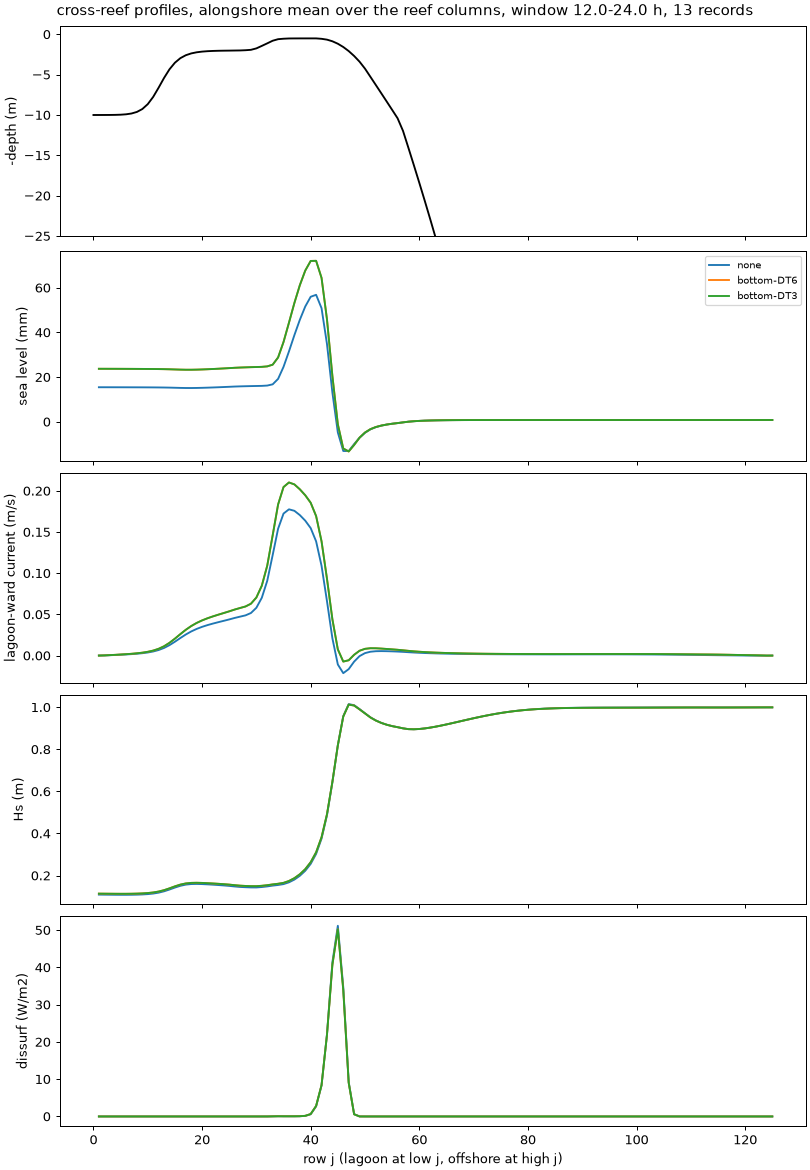
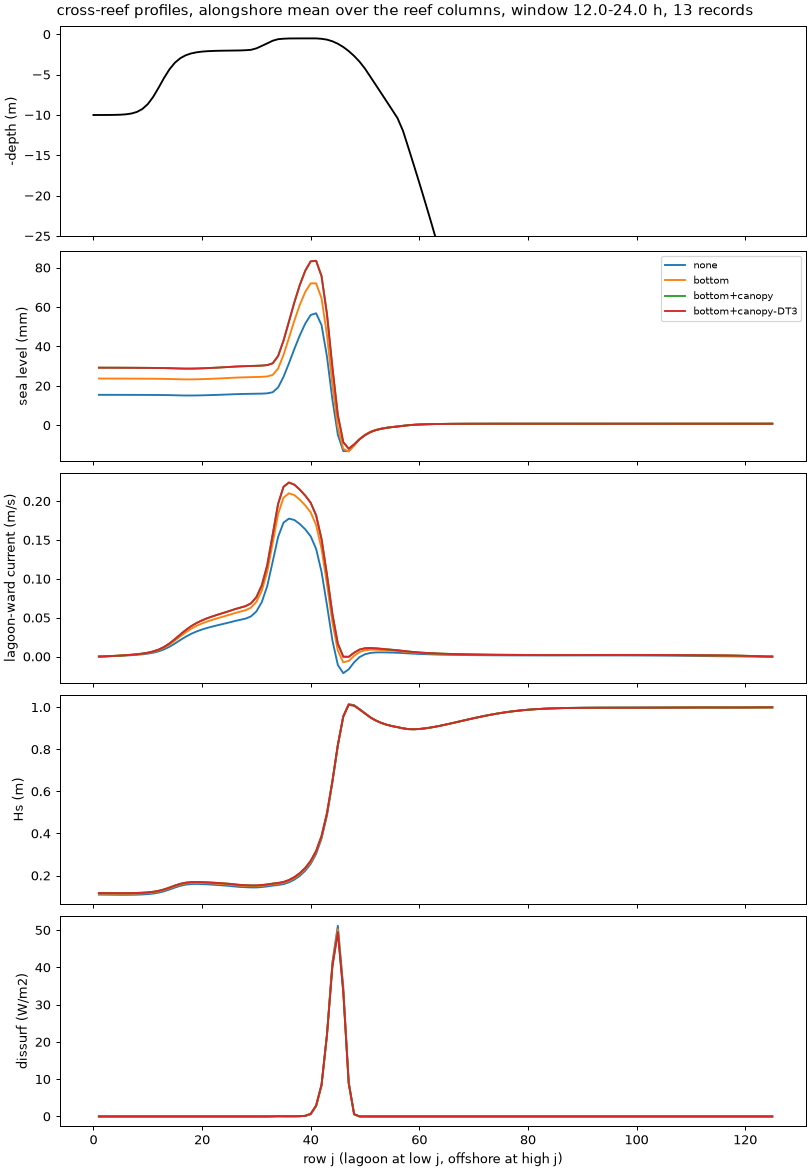
Wave streaming: bottom + canopy roughly doubles the lagoon set-up (+95 %), crest transport +32 %; stable at DT 6 s

diff --git a/results/README.md b/results/README.md
@@ -7,7 +7,7 @@ linked in each section, where the full tables, figures and run details are.
 Percentages are differences between 24 h runs, over hours 12-24 (the second
 tidal cycle), unless stated.
 
-**Last updated:** 2026-11-03 22:10 UTC.
+**Last updated:** 2026-11-03 22:40 UTC.
 
 Entries: [results p0-p2](../notebook/2026-11-02_options-campaign-results-p0-p2.md),
 [triads-on](../notebook/2026-11-02_options-triads-on.md),
@@ -52,7 +52,7 @@ Entries: [results p0-p2](../notebook/2026-11-02_options-campaign-results-p0-p2.m
 | Question | Answer | Size of the effect | Entry |
 |---|---|---|---|
 | Turbulence closure on the heated reef (k-epsilon KC / Canuto-A, gen, k-omega) | **k-epsilon is fine**: Canuto-A within 1-3 %; gen within 5 % (crest shear 10 %); k-omega odd in the lagoon (AKt at the background, weaker mean stratification), needs a look; `VEG_TURB` itself 2-8 % | 5-10 % | closure entry; keep k-epsilon proposed |
-| Wave streaming: the wave momentum lost to bottom friction (`BOTTOM_STREAMING`) | **first-order**: set-up +57 %, crest transport +22 %, pass +19 %, jets +13-22 %; stable at DT 6 s (= DT 3 s); the canopy part (`VEG_STREAMING`) pending | without it a third of the reef's wave forcing is missing | wave-streaming entry; the author's decision open |
+| Wave streaming: the wave momentum lost to bottom friction (`BOTTOM_STREAMING`) | **first-order**: bottom alone set-up +57 %, crest transport +22 %; **bottom + canopy (`VEG_STREAMING`) set-up +95 %, crest +32 %, pass +29 %, jets +27-35 %**; stable at DT 6 s (= DT 3 s), no cost | without them 60 % of the dissipated wave momentum pushes no water | wave-streaming entry; the author's decision open |
 | Triads (`TRIAD`) | first-order; must be on, with the SWAN fix | without them: set-up -82 % (dense canopy), -61 % (density-1 canopy), -32 % (bare) | triads-on, density-1 |
 | Wave breaking formulation, with triads | CON 0.73 and CON 0.80 agree within 1 % on the realistic canopy; `BKD` gives 7-11 % more set-up, crest transport and crest jet; `TG` (Thornton-Guza) leaves the flow within 3 % but changes the fore-reef shear, crest Hs and flushing | density-1 canopy: BKD set-up +8 %, crest jet +11 %; TG forereef shear +62 %, Hs crest -18 %, flushing +33 % (dense canopy: similar spread) | density-1, triads-on |
 | ... without triads (for the record) | the spread looked huge | set-up -24 % to +108 %: an artefact of the missing triads | results p0-p2 |
@@ -154,8 +154,8 @@ cheaper** (65-75 instead of 81-84 s of wall time per simulated hour).
   `ZOS_HSIG_ALPHA`, ...) and lagoon residence time with ROMSPath.
 - `VEG_TURB` is written for k-epsilon only: the closure test favours keeping
   k-epsilon, so no patch is needed (to revisit only if gen or k-omega is chosen).
-- Wave streaming: bottom streaming is first-order (set-up +57 %); adopting it is the
-  author's decision; canopy streaming being rerun after a restart-file fix.
+- Wave streaming: first-order (bottom + canopy: set-up +95 %, crest transport +32 %);
+  adopting it is the author's decision.
 - `TKE_WAVEDISS`, the roller and the breaking
   formulations on the stratified and heated cases with triads on; (`SPLINES_VDIFF`: inert with MPDATA.)
 - `UV_BANIHASHEMI` instead of `UV_KIRBY`: no difference on A15 (within 0.5 %); to

diff --git a/notebook/2026-11-03_wave-streaming.md b/notebook/2026-11-03_wave-streaming.md
@@ -1,7 +1,7 @@
 # Wave streaming: the wave momentum lost to bottom friction and the canopy
 
 - **Date:** 2026-11-03
-- **Status:** bottom streaming done (first-order: set-up +57 %); bottom + canopy streaming being rerun after a fix
+- **Status:** done: bottom streaming set-up +57 %, bottom + canopy +95 %; adopting them is the author's decision
 - **Builds:** coawst-cloud `ae2da7f` (`roms-veg-streaming-fixes`), `+BOTTOM_STREAMING`
   (and `+VEG_STREAMING`); `Reef_Ideal_A15_veg`, breaking-zone grid, roller, density-1
   canopy, 10 levels, `GLS_Kmin` 7.6e-6, `BREAKING CON 1.0 0.73` (as the baseline member
@@ -71,6 +71,30 @@ itself was right.
   case of the coawst-cloud fix blew up; cost +1.5 %.
 - The waves themselves change little (Hs +3.7 % from the deeper water over the crest).
 
+## Results: bottom and canopy streaming
+
+Same runs plus `VEG_STREAMING` (coawst-cloud `4abff12`, after the restart-file fix):
+
+| Metric | none | bottom | bottom + canopy, DT 6 s | bottom + canopy, DT 3 s |
+|---|---|---|---|---|
+| set-up | 14.18 mm | +57 % | **+95 %** | +95 % |
+| set-up range | 13.48 mm | +32 % | +56 % | +56 % |
+| crest transport | 521 m³/s | +22 % | **+32 %** | +33 % |
+| pass transport | 618 m³/s | +19 % | +29 % | +29 % |
+| crest jet p99 / max | 0.195 / 0.264 m/s | +17 / +13 % | +27 / +21 % | +27 / +21 % |
+| pass jet p99 / max | 0.337 / 0.404 m/s | +22 / +21 % | +35 / +33 % | +35 / +33 % |
+| surface / mean speed, crest / fore reef | 1.13 / 1.07 | -2 / -5 % | -3 / +7 % | -3 / +10 % |
+| Hs crest / reef flat | 0.199 / 0.192 m | +4 / +3 % | +6 / +6 % | same |
+| lagoon flushing time | 64 h | -5 % | -8.5 % | -8 % |
+| wall s per simulated hour | 115 | 116 | 116 | 178 |
+
+- **The canopy part adds about as much again**: with both forces the lagoon
+  set-up nearly doubles and the crest and pass transports rise by about 30 %.
+- Again stable and converged in time (DT 6 s = DT 3 s within 0.1 %), at no cost.
+- Together the two streaming forces give the mean flow the momentum of the
+  60 % of the wave dissipation that is not breaking; on this reef that is the
+  difference between a set-up of 14 and of 28 mm.
+
 ## What it means
 
 Without `BOTTOM_STREAMING`, the model leaves out a forcing as large as a third of the
@@ -80,14 +104,17 @@ bottom-friction dissipation, so the bed roughness (`grain_diameter` 0.12 m, SWAN
 0.3 m) now sets the flow directly as well as the wave height: it moves up the list of
 ensemble axes.
 
+The same holds for the canopy: its streaming force is proportional to the canopy's
+wave dissipation, so the canopy parameters set the flow through it too.
+
 ## Decision / outcome
 
-Open (the author's decision): `BOTTOM_STREAMING` on in the A15 defaults; `VEG_STREAMING`
-pending its rerun.
+Open (the author's decision): `BOTTOM_STREAMING` and `VEG_STREAMING` on in the A15
+defaults (they need images from coawst-cloud `4abff12` on).
 
 ## Details and links
 
 - coawst-cloud: `roms-veg-streaming-fixes` (patch, document, test)
 - [Vertical resolution](2026-11-03_vertical-resolution.md) (the baseline member),
   [results summary](../results/README.md)
-- Cost: bottom-streaming pair about $0.35.
+- Cost: bottom pair about $0.35, bottom + canopy pair about $0.35 (plus a failed first try, $0.1).

diff --git a/notebook/README.md b/notebook/README.md
@@ -27,7 +27,7 @@ options test campaign (phases 0-2) gets one entry per phase.
 | 2026-11-03 | [SWAN's refraction and frequency-shift limiters](2026-11-03_swan-limiters.md) | A15_veg, band grid, roller | `CTHETA` 0.9 within 0.7 %, `CSIGMA` never acts, `DIRIMPL` 1 within 1 %: defaults converged, no limiter; bare reef too, and the bare reef needs DT 3 s on the band grid |
 | 2026-11-03 | [Vertical resolution: N 10, 15 and 20](2026-11-03_vertical-resolution.md) | A15_veg, band grid, roller | N 10 not converged: set-up -7 % at N 15, -10 to -12 % at N 20; N 20 needs DT 3 s; N 15 at DT 6 s clean (+7 % cost) |
 | 2026-11-03 | [The 3.7e-7 m/s restart residual](2026-11-03_restart-residual-density.md) | A15_veg (TS_FIXED) | Cause: with TS_FIXED the barotropic density averages were computed once at start-up; fix `roms-ts-fixed-density`: restarts bit-identical |
-| 2026-11-03 | [Wave streaming](2026-11-03_wave-streaming.md) | A15_veg, band grid, roller | Bottom streaming first-order: set-up +57 %, crest transport +22 %; stable at DT 6 s; canopy streaming pending |
+| 2026-11-03 | [Wave streaming](2026-11-03_wave-streaming.md) | A15_veg, band grid, roller | First-order: bottom streaming set-up +57 %, bottom + canopy +95 % (crest transport +32 %); stable at DT 6 s, no cost |
 | 2026-11-03 | [Turbulence closure on the heated reef; `SPLINES_VDIFF`](2026-11-03_turbulence-closure.md) | A15_veg_therm, strat | k-epsilon (KC or Canuto) and gen within 5 %; k-omega odd in the lagoon; `SPLINES_VDIFF` inert with MPDATA; keep k-epsilon |
 | 2026-11-03 | [Grid convergence: 10 m vs 20 m](2026-11-03_grid-10m.md) | A15_veg, dense and density 1 | 20 m not converged: set-up -16 %, crest transport -11 to -18 % at 10 m; the breaking zone is 2-3 cells wide at 20 m; same dissipation |
 | 2026-11-03 | [30-degree spread: new baseline, directions converged](2026-11-03_spread30-baseline-and-resolution.md) | A15_veg, density 1 | 72 directions within 1 % of 144 (36 within 3 %); 20 frequencies 3 % low; triads -58 %; new baseline set-up 12.5 mm (a third less than at 4 degrees) |
